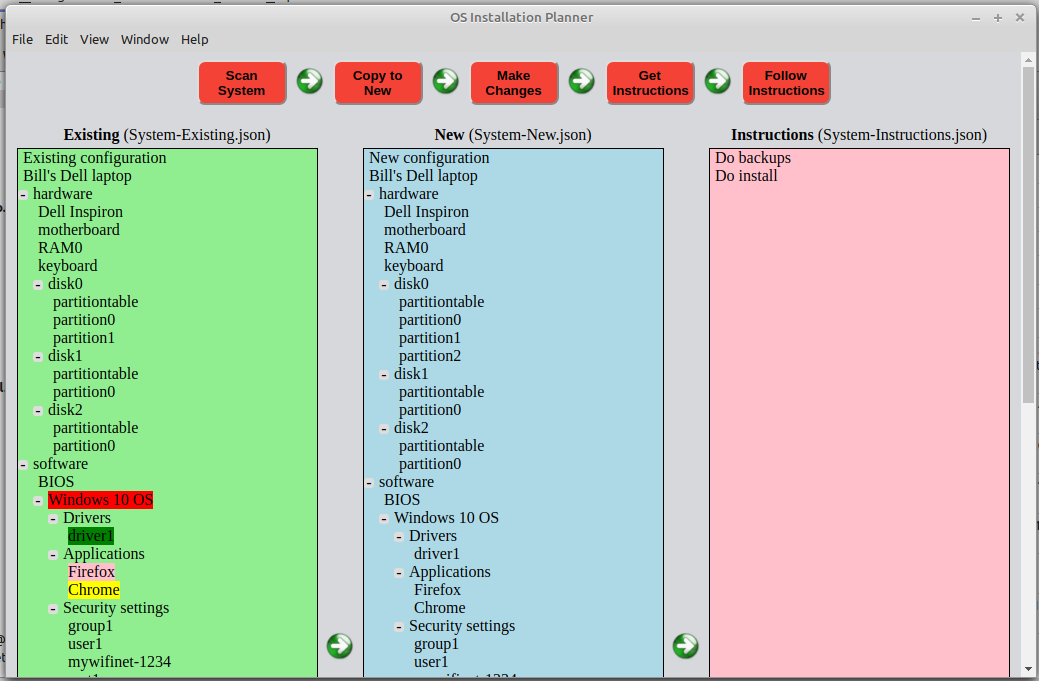
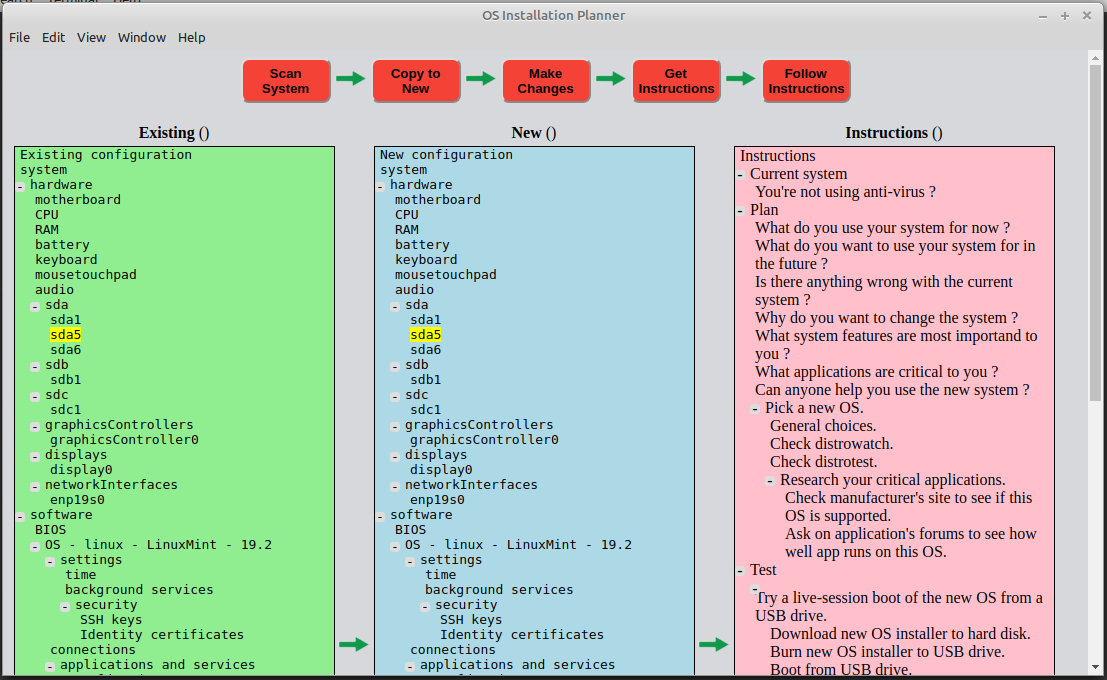
0.2.21

Changed region(s): [[0.0, 0.0, 1.0, 1.0], [0.1848, 0.0618, 0.8008, 0.1544], [0.2156, 0.7721, 0.2464, 0.8029]]

diff --git a/scansystem.js b/scansystem.js
@@ -64,7 +64,7 @@ const SOFTWARE_OS = 1;
 // indices in the OS children array
 const OS_SETTINGS = 0;
 const OS_CONNECTIONS = 1;
-const OS_APPLICATIONS = 2;
+const OS_APPSANDSERVICES = 2;
 
 //---------------------------------
 
@@ -525,9 +525,9 @@ function addOSInfo() {
   });
 
   gTree[TOP_SOFTWARE].children[SOFTWARE_OS].children.push({
-    name: "applications",
+    name: "applications and services",
     nodeEditable: false,
-    nodeCanAddChildren: true,
+    nodeCanAddChildren: false,
     nodeStatus: "existing",
     nodeId: gNextNodeId++,
     children: []
@@ -551,13 +551,69 @@ function addTimeInfo() {
 }
 
 
-function addApplicationInfo() {
-  console.log("addApplicationInfo: called");
-  
+function addBackgroundServicesInfo() {
+  //console.log("addBackgroundServicesInfo: called");
+  gTree[TOP_SOFTWARE].children[SOFTWARE_OS].children[OS_SETTINGS].children.push({
+            name: "background services",
+            nodeEditable: false,
+            nodeCanAddChildren: true,
+            nodeStatus: "existing",
+            nodeId: gNextNodeId++,
+            children: []
+            });
+}
+
+
+function addSecurityInfo() {
+  //console.log("addSecurityInfo: called");
+
+  var objSecurity = Object({
+            name: "security",
+            nodeEditable: false,
+            nodeCanAddChildren: true,
+            nodeStatus: "existing",
+            nodeId: gNextNodeId++,
+            children: []
+            });
+
+  objSecurity.children.push({
+            name: "SSH keys",
+            nodeEditable: false,
+            nodeCanAddChildren: true,
+            nodeStatus: "existing",
+            nodeId: gNextNodeId++,
+            children: []
+            });
+
+  objSecurity.children.push({
+            name: "Identity certificates",
+            nodeEditable: false,
+            nodeCanAddChildren: true,
+            nodeStatus: "existing",
+            nodeId: gNextNodeId++,
+            children: []
+            });
+
+  gTree[TOP_SOFTWARE].children[SOFTWARE_OS].children[OS_SETTINGS].children.push(objSecurity);
+}
+
+
+function addAppsAndServicesInfo() {
+  console.log("addAppsAndServicesInfo: called");
+
+  var objApps = new Object({
+    name: "applications",
+    nodeEditable: false,
+    nodeCanAddChildren: true,
+    nodeStatus: "existing",
+    nodeId: gNextNodeId++,
+    children: []
+  });
+
   const apps = [
-    { path: "/usr/bin/firefox", name: "Firefox" },
-    { path: "/opt/bogus", name: "bogus" },
-    { path: "/opt/thunderbird", name: "Thunderbird" }
+    { path: "/usr/bin/firefox", name: "Firefox", canHaveAddons: true },
+    { path: "/opt/bogus", name: "bogus", canHaveAddons: true },
+    { path: "/opt/thunderbird", name: "Thunderbird", canHaveAddons: true }
   ];
 
   for (var i = 0; i < apps.length; i++) {
@@ -569,22 +625,48 @@ function addApplicationInfo() {
       //fs.statSync(filepath);
       //exists = fs.existsSync(filepath);
     } catch(e) {
-      //console.log("addApplicationInfo: caught e " + e);
+      //console.log("addAppsAndServicesInfo: caught e " + e);
       exists = false;
     }
-    //console.log("addApplicationInfo: i " + i + ", path " + apps[i].path + ", filepath " + filepath + ", exists " + exists);
+    //console.log("addAppsAndServicesInfo: i " + i + ", path " + apps[i].path + ", filepath " + filepath + ", exists " + exists);
 
     if (exists) {
-      gTree[TOP_SOFTWARE].children[SOFTWARE_OS].children[OS_APPLICATIONS].children.push({
+      var obj = new Object({
                 name: apps[i].name,
                 nodeEditable: true,
-                nodeCanAddChildren: false,
+                nodeCanAddChildren: true,
                 nodeStatus: "existing",
                 nodeId: gNextNodeId++,
                 children: []
                 });
+      if (apps[i].canHaveAddons) {
+        obj.children.push({
+                  name: "addons",
+                  nodeEditable: true,
+                  nodeCanAddChildren: true,
+                  nodeStatus: "existing",
+                  nodeId: gNextNodeId++,
+                  children: []
+                  });
+      }
+      objApps.children.push(obj);
     }
   }
+
+  gTree[TOP_SOFTWARE].children[SOFTWARE_OS].children[OS_APPSANDSERVICES].children.push(objApps);
+
+  var objServices = new Object({
+    name: "services",
+    nodeEditable: false,
+    nodeCanAddChildren: true,
+    nodeStatus: "existing",
+    nodeId: gNextNodeId++,
+    children: []
+  });
+
+  /// SOMETHING !!!
+
+  gTree[TOP_SOFTWARE].children[SOFTWARE_OS].children[OS_APPSANDSERVICES].children.push(objServices);
 }
 
 
@@ -759,7 +841,10 @@ function scansystem() {
             addOSInfo();
 
             addTimeInfo();
-            addApplicationInfo();
+            addBackgroundServicesInfo();
+            addSecurityInfo();
+
+            addAppsAndServicesInfo();
             
             gTree[TOP_CONFIG].nextNodeId = gNextNodeId;
 

diff --git a/index.css b/index.css
@@ -11,6 +11,7 @@ div.mytree0 {
 	margin:0 auto;
 	height: 1000px;
 	width: 320px;
+	font-family: monospace;
 	background-color:lightgreen;
 }
 
@@ -23,6 +24,7 @@ div.mytree1 {
 	margin:0 auto;
 	height: 1000px;
 	width: 320px;
+	font-family: monospace;
 	background-color:lightblue;
 }
 
